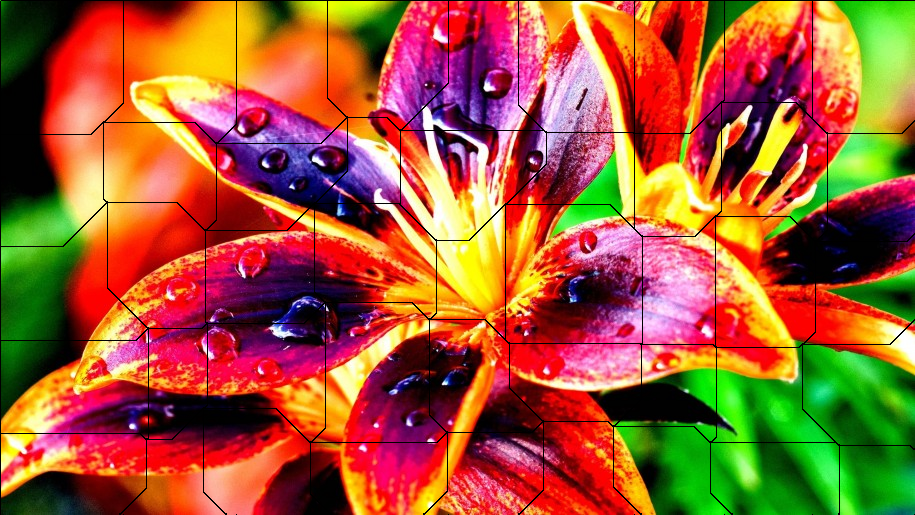
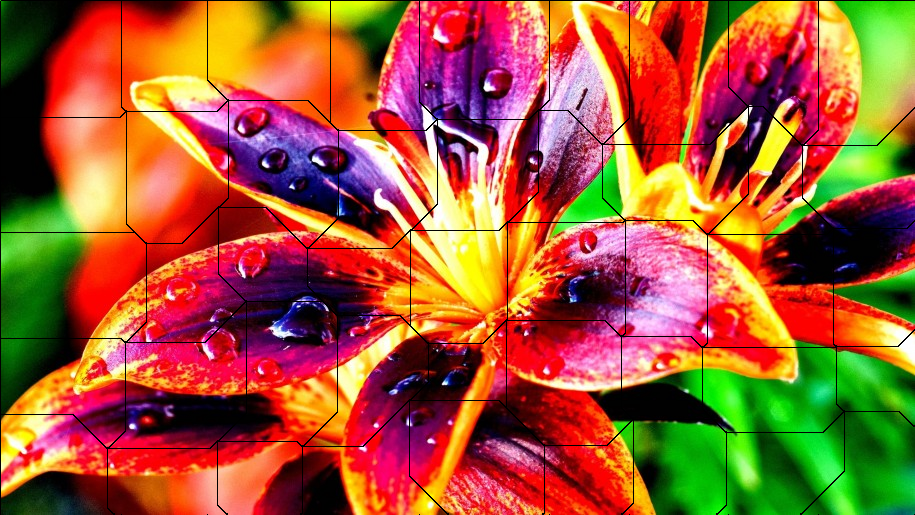
filter pairs

diff --git a/__create_fragments.py b/__create_fragments.py
@@ -31,12 +31,15 @@ def save_fragments(F, folder):
     h,w = dimensions(F)
     done = False
     while(not(done)):
-        start = [-1,-1]
-        for x in range(w):
-            for y in range(h):
-                if (F[y,x].any()):
-                    start = [x,y]
-        if (start[0] == -1):
+        x = 1
+        y = 1
+        while ( ((x < w) and (y < h)) and (not(F[y,x].any())) ):
+            x = x + 1
+            if (x >= w-1):
+                x = 0
+                y = y + 1
+        start = [x,y]
+        if (y == h):
             done = True
         else:
             save_single_fragment(F, start[0], start[1])
@@ -55,41 +58,44 @@ def save_single_fragment(F, startx, starty):
         ### Treat visit[idx]
         currentx = int(visit[idx + 0])
         currenty = int(visit[idx + 1])
-        print("current pixel : ", [currentx, currenty])
-        count = count + 1
+        print("current pixel : ", [currentx, currenty], ", visit length : ", len(visit))
         pixel_set(F, currentx, currenty, 0,0,0)
+        count = count + 1
         ### Check neighbours of visit[idx]
         for x in range(-1, 2, 1):
             for y in range(-1, 2, 1):
                 newx = int(currentx+x)
                 newy = int(currenty+y)
+                
                 if ((newx < w) & (newx >= 0)):
                     if ((newy < h) & (newy >= 0)):
-                        #print("    looking at : ", [newx, newy])
-                        tmp = F[newy, newx]
-                        #print(tmp)
-                        if ((tmp[0] != 0) or (tmp[1] != 0) or (tmp[2] != 0)):
-                            #print("yes")
-                            visit = np.append(visit, [newx, newy])
-                            #visit = np.concatenate((visit, newx))
-                            #visit = np.concatenate((visit, newy))
-                            #visit = np.insert(visit, len(visit)-1, [newx, newy])
-                            #value = np.zeros_like(visit[0])
-                            #value[0] = newx
-                            #value[1] = newy
-                            #visit = np.vstack((visit, value))
-                            #print("ok !")
+                        isNew = True
+                        for n in range(0, len(visit)-1, 2):
+                            if ((int(visit[n+0] == newx)) & (int(visit[n+1] == newy))):
+                                isNew = False
+                        if (isNew):
+                            tmp = F[newy, newx]
+                            #print(tmp)
+                            if ((tmp[0] != 0) or (tmp[1] != 0) or (tmp[2] != 0)):
+                                #print("yes")
+                                visit = np.append(visit, [newx, newy])
+                                #visit = np.concatenate((visit, newx))
+                                #visit = np.concatenate((visit, newy))
+                                #visit = np.insert(visit, len(visit)-1, [newx, newy])
+                                #value = np.zeros_like(visit[0])
+                                #value[0] = newx
+                                #value[1] = newy
+                                #visit = np.vstack((visit, value))
+                                #print("ok !")
         #print(visit)
+        #a = input("hello")
         idx = idx + 2
-        #print(idx)
-        if (len(visit) == idx*2):
+        #print("done ? ", idx, "/", len(visit))
+        if (len(visit) <= idx):
             done = True
     print("Changed " + str(count) + " pixels")
-        
+    return
 
-
-    # TODO Implement A* type algorithm to retrieve all pixels in zones
-    # np.append (visited, [a,b])
 
 # Lines to cut in fragments
 def fragment_file(F, fragment_size):

diff --git a/__ransac.py b/__ransac.py
@@ -7,14 +7,22 @@ import __ransac_functions as r_f
 import __ransac_homography as r_h
 
 
-print("BEGIN TREATMENT")
+#print("BEGIN TREATMENT")
 #######################################################
 #  READ DATA FROM TXT FILE IN PARAM
 #######################################################
-print("READ DATA")
+#print("READ DATA")
 param1 = sys.argv[1] 
 #param1 = "resultats/1.txt"
 nb_paires = r_f.get_line_number(param1)
+"""
+if (nb_paires < 10):
+	print("nombre de paires insuffisant pour l'image ", param1)
+	quit()
+else:
+	quit()
+"""
+
 nb_infos = 6
 valeurs_txt = r_f.get_data_from_file(param1)
 #print("Paired points amount : " + str(nb_paires))
@@ -29,7 +37,6 @@ for i in range(nb_paires):
 	y1[i] = valeurs_txt[i][1]
 	x2[i] = valeurs_txt[i][2]
 	y2[i] = valeurs_txt[i][3]
-
 
 
 #######################################################

diff --git a/__ransac_functions.py b/__ransac_functions.py
@@ -29,6 +29,14 @@ def get_line_number(file_name):
             pass
     return i + 1
 
+
+def pair_filter(val_ligne):
+    thresh_score = 2.2
+    if (float(val_ligne[4]) < float(thresh_score)):
+        return False
+    return True
+
+
 def get_data_from_file(file_name):
     # Init np array
     valeurs = np.zeros((get_line_number(file_name), 6))
@@ -38,8 +46,11 @@ def get_data_from_file(file_name):
     # Store lines
     for line in Lines:
         val_ligne = line.split(" ")
-        for i in range(6):
-            valeurs[idx_ligne][i] = float(val_ligne[i])
+        if (pair_filter(val_ligne)):
+            for i in range(6):
+                valeurs[idx_ligne][i] = float(val_ligne[i])
+        else:
+            valeurs[idx_ligne][i] = (-1)
         idx_ligne += 1
     return valeurs
 
